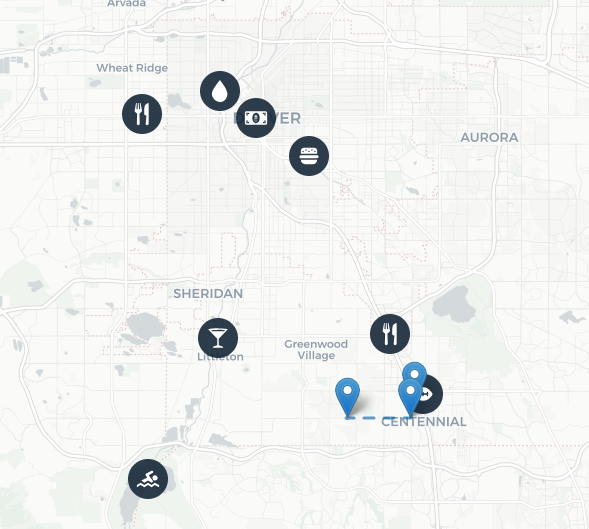
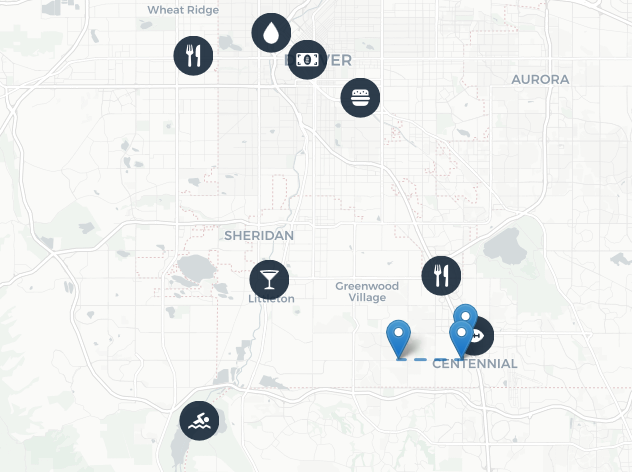
Bio and changing pictures

diff --git a/index.html b/index.html
@@ -65,7 +65,7 @@
           <div class="col-lg-4 col-sm-6 portfolio-item">
             <div class="card h-100">
               <a href="https://jeremy-deischer.github.io/udfcd-project-density/" target="_blank">
-                <img class="card-img-top" src="images\map673_udfcdprojectdensity.PNG" alt=""></a>
+                <img class="card-img-top" src="images\map673_udfcdprojectdensity_resize.PNG" alt=""></a>
               <div class="card-body">
                 <h4 class="card-title">
                   <a href="https://jeremy-deischer.github.io/udfcd-project-density/" target="_blank">UDFCD Project Density</a>
@@ -148,12 +148,14 @@
           <div class="col-lg-12 mx-auto">
             <h2>About me</h2>
             <div class='my-5 clearfix'>
-              <div class="float-md-left mb-5 mr-md-4"><img class="rounded-circle img-fluid" src="http://placehold.it/200x200" alt=""></div>
+              <div class="float-md-left mb-5 mr-md-4">
+                <img class="rounded-circle img-fluid" src="images\jeremypicture.jpg" alt=""></div>
               <p class="lead">Hi, I'm Jeremy Deischer. I'm a Water Resources Civil Engineer by day, learning
                 new ways to present data through web maps by night.
                 </p>
-              <p class="lead">When I'm not banging my head against the
-                computer I'm spinning records, doing yoga, or landscape reading.</p>
+              <p class="lead">When I'm not working I enjoy following all my
+                favorite sports teams, keeping up with the best new TV shows, and
+                getting outside and enjoying all Colorado has to offer. </p>
             </div>
           </div>
         </div>
@@ -162,8 +164,7 @@
             <h3>Skills</h3>
             <dl>
                 <dt>GIS</dt>
-                <dd>QGIS for data analysis, manipulation, and, format conversion</dd>
-                <dd>ESRI Suite</dd>
+                <dd>QGIS and ESRI for data analysis, manipulation, and, format conversion</dd>
                 <dt>Web Mapping</dt>
                 <dd>Leaflet for raster tilesets, basic thematic mapping, and telling stories with maps</dd>
                 <dd>D3.js for advanced infographics and map projections</dd>
